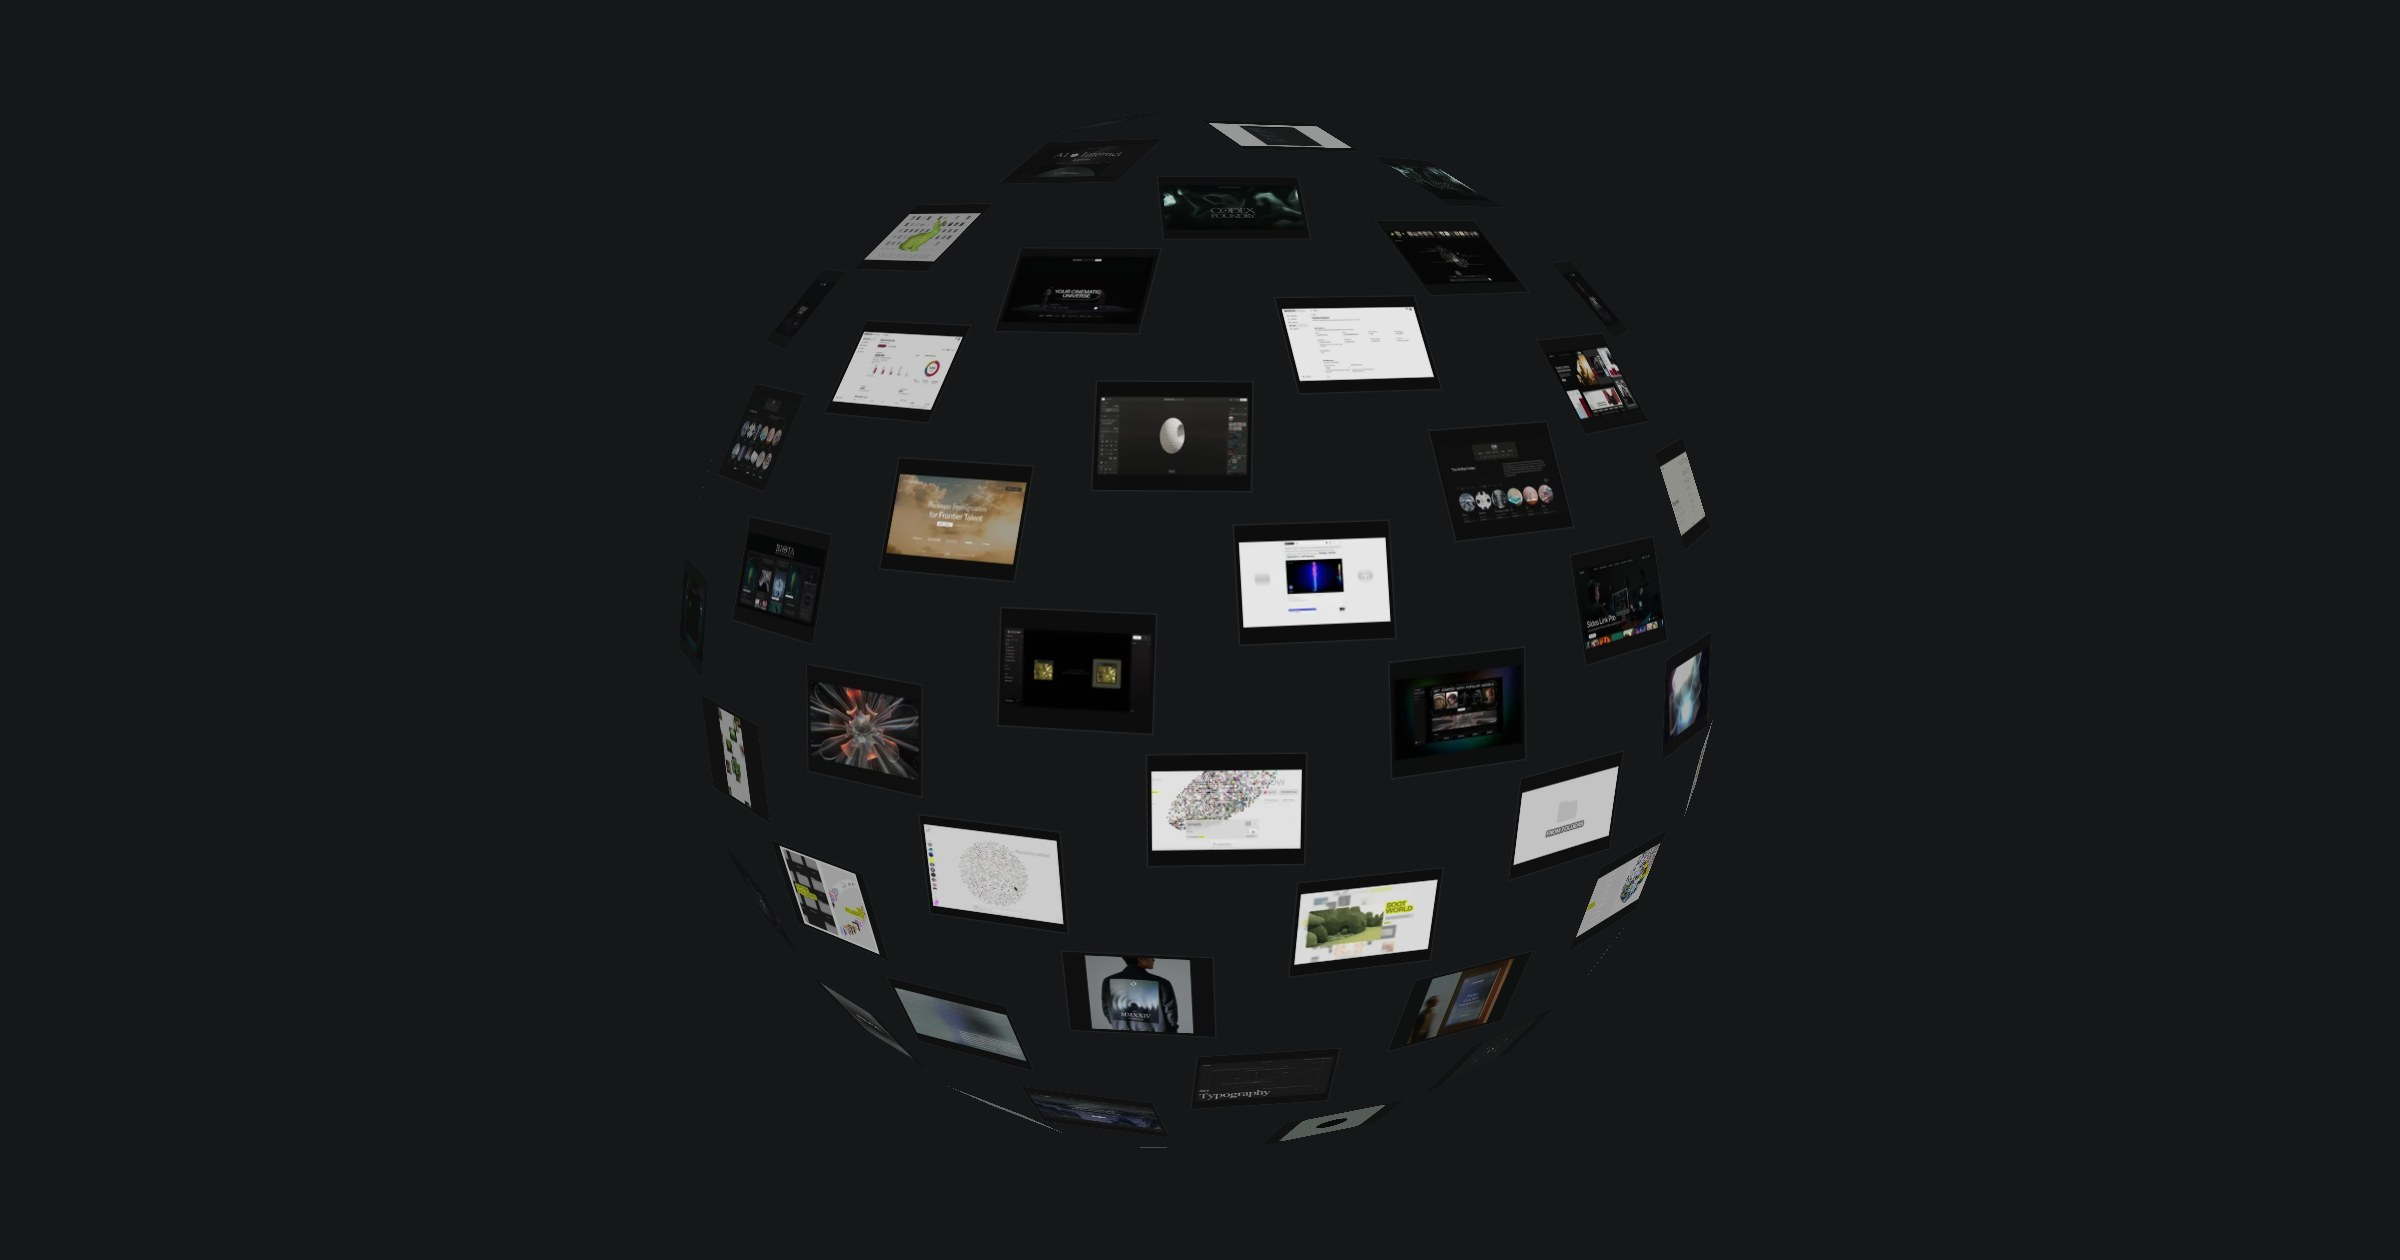
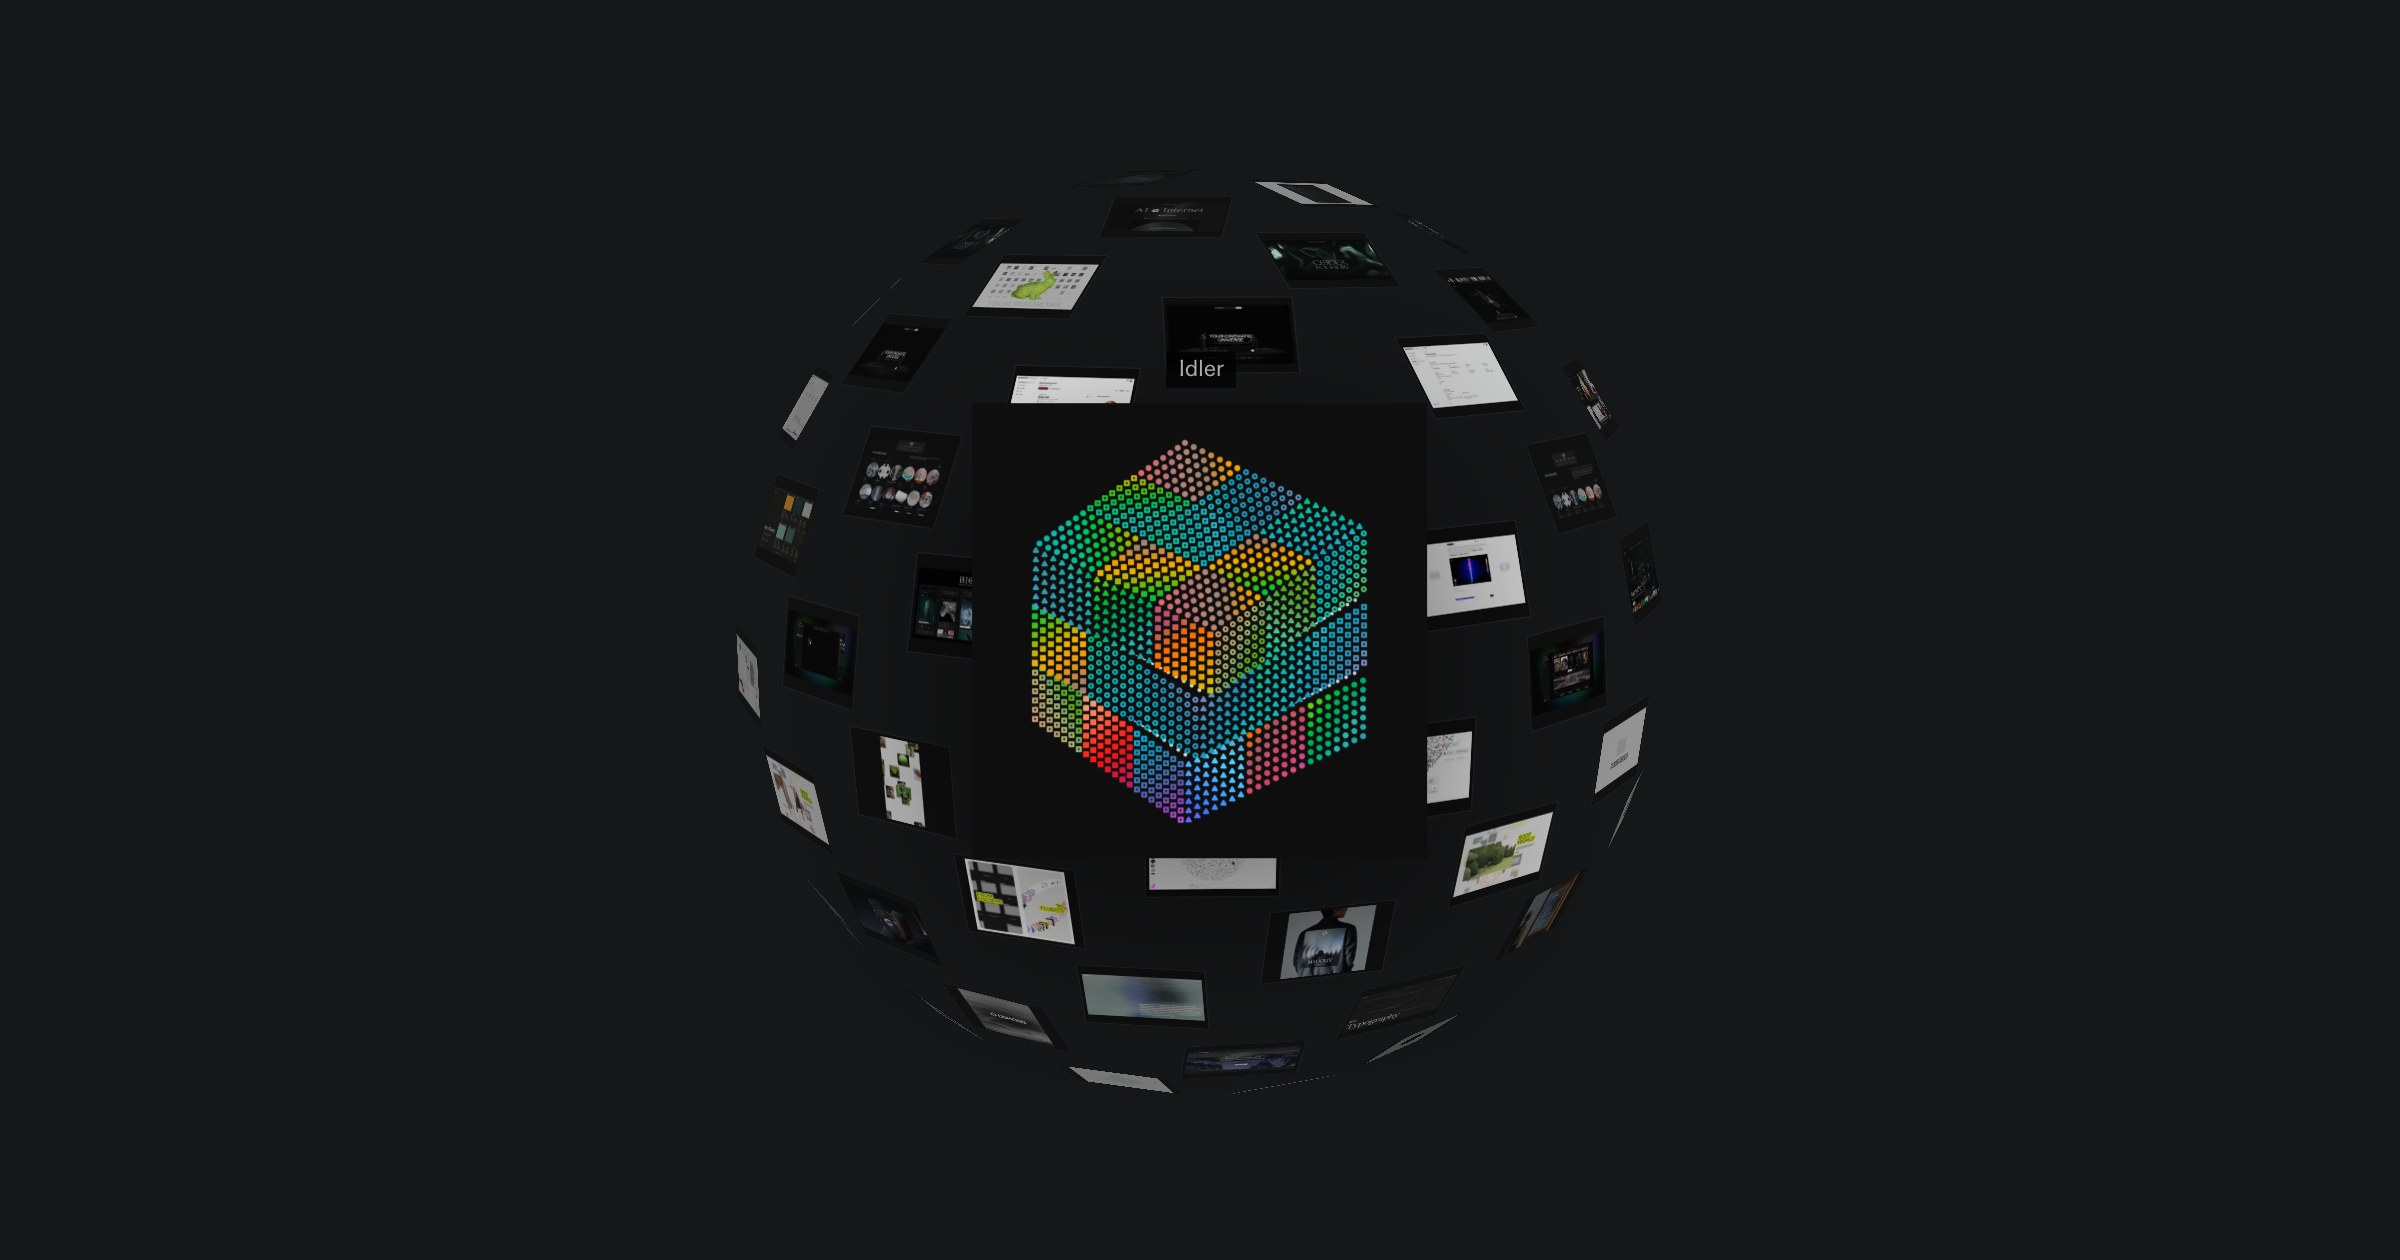
Globe keeps turning behind an open tile; social image shows the hover
- The orb turns at half speed while a tile is open instead of stopping
- Zoom size reads --zoom (default .62), so a render can open it smaller
- og.jpg: the globe with the Shell open, playing, labeled Idler

diff --git a/index.html b/index.html
@@ -17,13 +17,13 @@
 <meta property="og:url" content="https://renaise.com/" />
 <meta property="og:title" content="Renaise Kim · Visual Systems" />
 <meta property="og:description" content="Renaise Kim is a designer and curator working from web to world: identity, product and data visualization for new technology to new productions." />
-<meta property="og:image" content="https://renaise.com/assets/og.jpg?v=4" />
+<meta property="og:image" content="https://renaise.com/assets/og.jpg?v=5" />
 <meta property="og:image:width" content="2400" />
 <meta property="og:image:height" content="1260" />
 <meta name="twitter:card" content="summary_large_image" />
 <meta name="twitter:title" content="Renaise Kim · Visual Systems" />
 <meta name="twitter:description" content="Renaise Kim is a designer and curator working from web to world: identity, product and data visualization for new technology to new productions." />
-<meta name="twitter:image" content="https://renaise.com/assets/og.jpg?v=4" />
+<meta name="twitter:image" content="https://renaise.com/assets/og.jpg?v=5" />
 <script type="application/ld+json">
 {"@context":"https://schema.org","@type":"Person","name":"Renaise Kim","url":"https://renaise.com/",
  "jobTitle":"Designer","email":"mailto:krenaise@gmail.com",
@@ -2687,7 +2687,7 @@ document.documentElement.className+=' js';
       });
     }
     function frame(){
-      raf=0; if(!drag&&hover<0) rotY+=spin;   // hold still while a tile is open
+      raf=0; if(!drag) rotY+=hover<0?spin:spin*.5;   // keeps turning, at half speed, behind an open tile
       orb.style.transform='rotateX('+rotX+'rad) rotateY('+rotY+'rad)';
       // facing: brightest where a tile looks straight at the camera, fading to the rim
       var cy=Math.cos(rotY), sy=Math.sin(rotY), cx=Math.cos(rotX), sx=Math.sin(rotX);
@@ -2715,7 +2715,7 @@ document.documentElement.className+=' js';
       // long side lands at ~62% of the globe's width once the perspective has enlarged it
       // Playing (2026-11-20): a tile from a video plays that video from the frame it shows; a
       // cutout plays its own loop at the loop's proportions; a still drifts slowly.
-      var vid=A.vid&&A.vid[o.t], full=fullSrc(o.t), ar=vid?vid[2]:(full?full.ar:TW/TH), big=Math.min(bx.width,bx.height)*.62/f, zw=ar>=1?big:big*ar, zh=zw/ar;
+      var vid=A.vid&&A.vid[o.t], full=fullSrc(o.t), ar=vid?vid[2]:(full?full.ar:TW/TH), big=Math.min(bx.width,bx.height)*(parseFloat(getComputedStyle(box).getPropertyValue('--zoom'))||.62)/f, zw=ar>=1?big:big*ar, zh=zw/ar;
       var zx=r.left-bx.left+r.width/2, zy=r.top-bx.top+r.height/2;
       zoom.style.width=zw+'px'; zoom.style.height=zh+'px'; zoom.style.left=(zx-zw/2)+'px'; zoom.style.top=(zy-zh/2)+'px';
       var cut=vid&&/^globe\/src\/objects\//.test(A.src[o.t]);   // a cutout: show its video's own poster first
